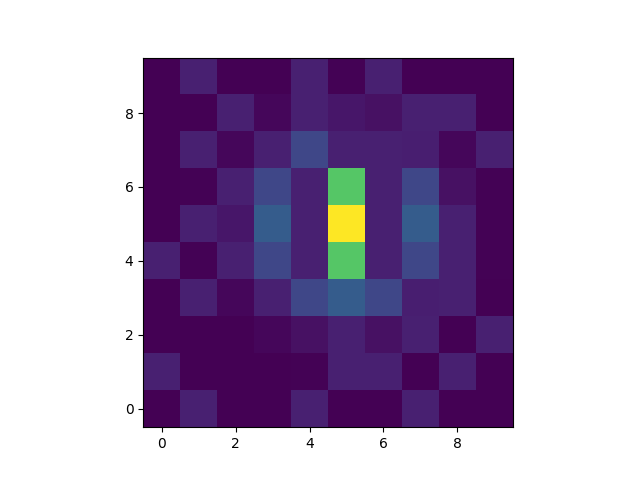
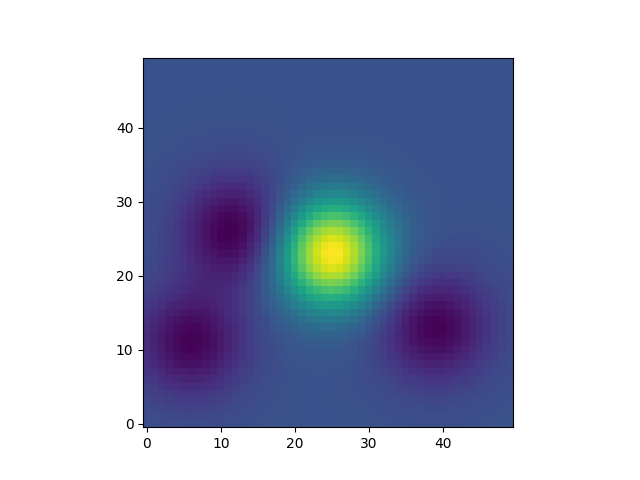
Sim stops when error is below a threshold
Add slider to adjust this in visualisation (set to 0 if you want to ignore this goal condition).
Use MESA visualisation to chart performance metrics. See if MESA can support continuous time, as opposed to running in discrete time intervals.

diff --git a/mesa_spatial_sampling_MRS/model.py b/mesa_spatial_sampling_MRS/model.py
@@ -218,7 +218,7 @@ class SpatialSamplingModel(Model):
         self.width = width
         self.num_robots = num_robots
         self.robots = []
-        self.RMSE = 0
+        self.RMSE = 999
 
         self.data_collector = DataCollector(model_reporters={"RMSE": "RMSE"})
 
@@ -304,70 +304,6 @@ class SpatialSamplingModel(Model):
                             if a.type == 0 and a.goal is not None and a.unique_id != agent.unique_id and a.goal != []:
                                 current_goal_cells.append(a.goal)
 
-                    # goal_pos = (random.randrange(0, self.width), random.randrange(0, self.height))
-                    #
-                    # if goal_pos is not None:
-                    #     # Create a list of all other robots' goals to check for and reassign any duplicate goals
-                    #     current_goal_cells = []
-                    #     for a in self.schedule.agents:
-                    #         if a.type == 0 and a.goal is not None and a.unique_id != agent.unique_id and a.goal != []:
-                    #             current_goal_cells.append(a.goal)
-                    #     goal_val_loop_runs = 0
-                    #
-                    #     # Check goal cell for SampledCell agent (i.e. already sampled)
-                    #     goal_cell_already_sampled = True
-                    #     for a in self.grid.get_cell_list_contents(goal_pos):
-                    #         if a.type == 2:
-                    #             goal_cell_already_sampled = False
-                    #
-                    #     if goal_cell_already_sampled:
-                    #         print("Goal cell already sampled")
-                    #
-                    #     # Ensure that the goal cell has not been sampled or assigned to another robot
-                    #     while self.sampled[goal_pos[1], goal_pos[0]] != -1 or goal_pos in current_goal_cells or\
-                    #             goal_cell_already_sampled:
-                    #         goal_val_loop_runs += 1
-                    #
-                    #         # For debugging, informs the user if the goal validation loop has run an excessive number of
-                    #         # times and therefore may be stuck. Can be useful to set a breakpoint here if the loop gets
-                    #         # stuck
-                    #         if goal_val_loop_runs > (self.width * self.height) * 10:
-                    #             print("Consecutive goal validation loop runs: ", goal_val_loop_runs)
-                    #             print("Loop stuck?")
-                    #         if agent.goal in current_goal_cells:
-                    #             print("Goal", agent.goal, "already assigned in", current_goal_cells)
-                    #
-                    #         goal_pos = (random.randrange(0, self.width), random.randrange(0, self.height))
-                    #
-                    #         num_unsampled_cells = np.count_nonzero(self.sampled == -1)
-                    #         if num_unsampled_cells == 0:
-                    #             break
-                    #
-                    #         # Check goal cell for SampledCell agent (i.e. already sampled)
-                    #         goal_cell_already_sampled = True
-                    #         for a in self.grid.get_cell_list_contents(goal_pos):
-                    #             if a.type == 2:
-                    #                 goal_cell_already_sampled = False
-                    #         if goal_cell_already_sampled:
-                    #             continue
-                    #
-                    #         # Prevents assignment of goals when all remaining unsampled cells have already been assigned
-                    #         # as sampling goals to the robots
-                    #         if num_unsampled_cells <= len(self.robots):
-                    #             print(num_unsampled_cells, "unsampled cells remaining for", len(self.robots), "robots")
-                    #
-                    #             unsampled_cells = np.where(self.sampled == -1)
-                    #             unsampled_cells = set(zip(unsampled_cells[1], unsampled_cells[0]))
-                    #             print("Goal cells:", set(current_goal_cells), "len:", len(set(current_goal_cells)))
-                    #             print("Unsampled cells:", unsampled_cells, "len:", len(unsampled_cells))
-                    #             print("Goal cells are a subset of unsampled cells:",
-                    #                   set(current_goal_cells).issubset(unsampled_cells))
-                    #             if unsampled_cells == set(current_goal_cells):
-                    #                 print("All unsampled cells assigned")
-                    #
-                    #             print("Halting assignment of additional goal cells to robot", agent.unique_id)
-                    #             self.all_cells_assigned = True
-                    #             break
                         # Finally assign the goal to the robot, after the goal has been validated, i.e. it is for an as
                         # yet unsampled cell, does not contain another robot, and is not already assigned to another
                         # robot
@@ -377,7 +313,7 @@ class SpatialSamplingModel(Model):
         self.data_collector.collect(self)
 
         # Stop the simulation when all cells have been sampled by the robots
-        if -1 not in self.sampled:
+        if -1 not in self.sampled or self.RMSE < 0.01:
             self.running = False
 
         # Run one step of the model

diff --git a/mesa_spatial_sampling_MRS/server.py b/mesa_spatial_sampling_MRS/server.py
@@ -17,8 +17,8 @@ def draw(agent):
 
 
 # Grid defined and instantiated
-width = 10
-height = 10
+width = 50
+height = 50
 canvas_element = CanvasGrid(draw, width, height, 500, 500)
 RMSE_chart = ChartModule([{"Label": "RMSE",
                            "Color": "Black"}],
